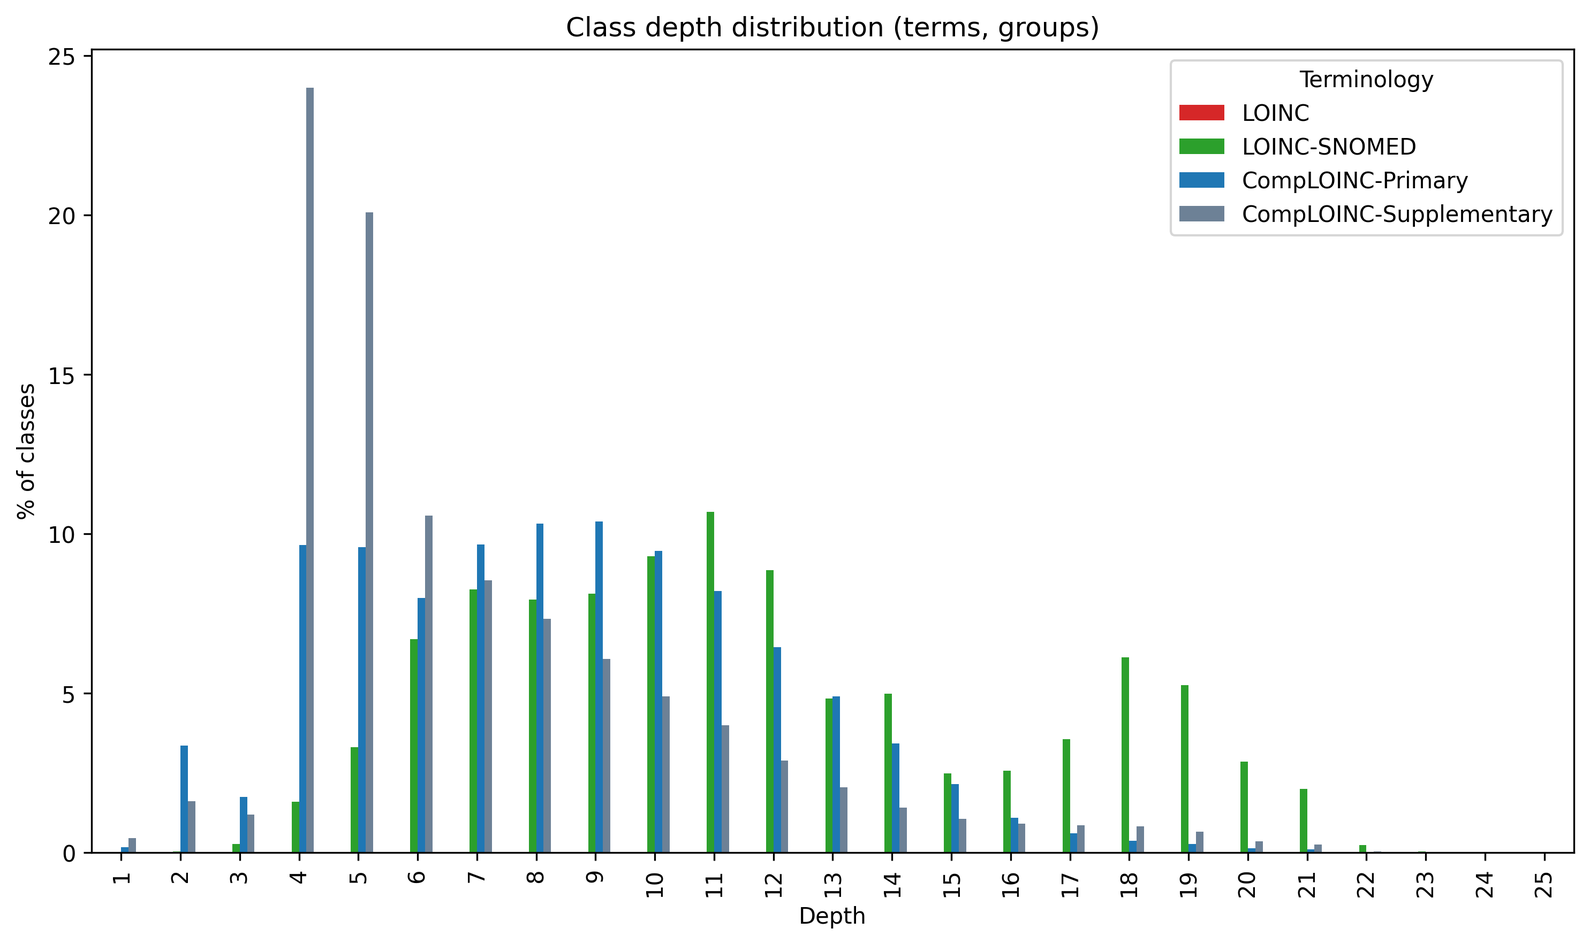
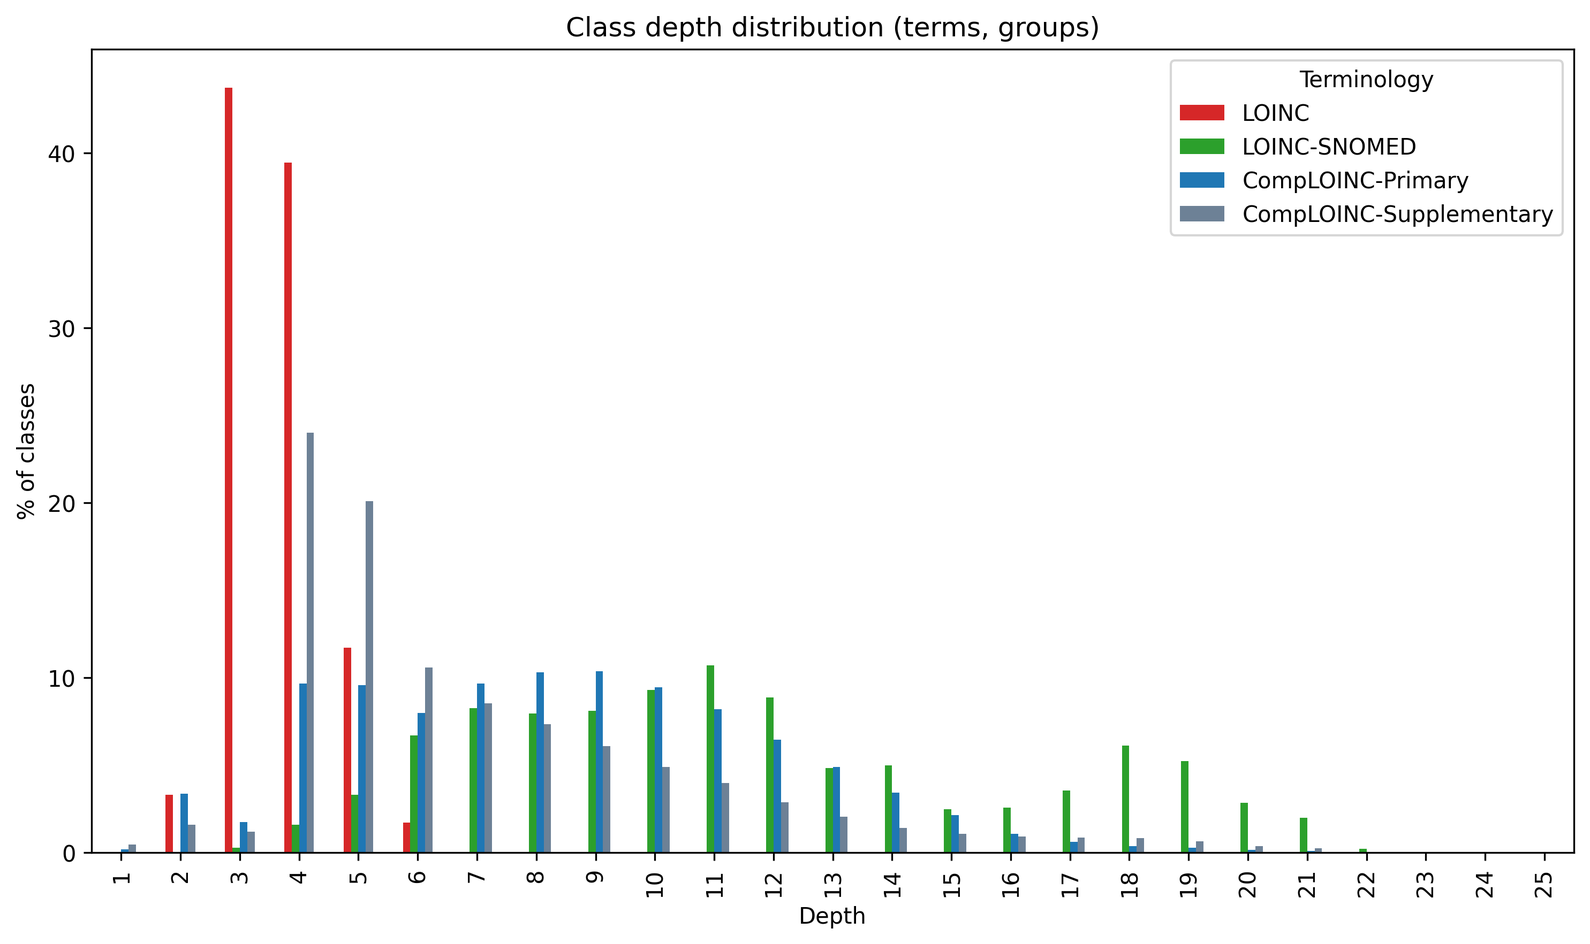
Depth analysis & Source representations
Depth analysis
- Improved logging
- Improved prefix logic

Source representations
- Fixed/improved outdirs

diff --git a/src/comp_loinc/analysis/utils.py b/src/comp_loinc/analysis/utils.py
@@ -18,9 +18,16 @@ def _disaggregate_classes(classes: Set, includes_angle_brackets=True, verbose=Fa
     """Disaggregate classes by type"""
     b = '<' if includes_angle_brackets else ''
     classes_by_type: Dict[str, Set] = {'terms': set(), 'groups': set(), 'parts': set(), 'other': set()}
-    if '<https://loinc.org/LoincPart>' in classes:
-        classes_by_type['parts'].add('<https://loinc.org/LoincPart>')
-        classes.remove('<https://loinc.org/LoincPart>')
+    # Parse roots
+    # todo: Any other root types in LOINC, CompLOINC, or LOINC-SNOMED Ontology?
+    #  - perhaps if we add roots like GRP_SYS, etc, if they have a different URL pattenr, will need to parse them here.
+    # Note: No such "https://loinc.org/LoincGroup" exists.
+    for root_uri, root_type in (('<https://loinc.org/LoincTerm>', 'terms'), ('<https://loinc.org/LoincPart>', 'parts')):
+        if root_uri in classes:
+            classes_by_type[root_type].add(root_uri)
+            classes.remove(root_uri)
+
+    # Parse non-roots
     for cls in classes:
         if cls.startswith(f'{b}http://comploinc//group/'):
             classes_by_type['groups'].add(cls)
@@ -33,6 +40,11 @@ def _disaggregate_classes(classes: Set, includes_angle_brackets=True, verbose=Fa
                 classes_by_type['terms'].add(cls)
         else:
             classes_by_type['other'].add(cls)
+
+    if len(classes_by_type['other']) > 0:
+        raise ValueError(f'Found n unexpected classes: {len(classes_by_type["other"])}. Check that '
+            f'_disaggregate_classes() is aware of all prefixes for terms, groups, and parts in CompLOINC, LOINC-SNOMED '
+            f'Ontology, and LOINC.')
 
     if verbose:
         for k, v in classes_by_type.items():

diff --git a/src/comp_loinc/analysis/depth.py b/src/comp_loinc/analysis/depth.py
@@ -107,7 +107,7 @@ def _depth_counts(
     # Find roots (classes with no parents)
     all_classes = set(children.keys()) | set(parents.keys())
     roots = all_classes - set(parents.keys())
-    logging.debug(f'    n roots: {len(roots)}')
+    logging.debug(f'    n roots: {len(roots):,}')
 
     # Calculate depth using BFS
     # A class can have multiple depths if the ontology is a polyhierarchy.
@@ -132,8 +132,8 @@ def _depth_counts(
             cls: depth for cls, depth in depths_raw.items() if cls in filtered_classes}
         depths = depths_filtered
         # logger.debug("After filtering, %d classes remain", len(depths_filtered))
-        logging.debug(f'    n classes: {len(all_classes)}')
-        logging.debug(f'    remaining after filtering: {len(filtered_classes)}')
+        logging.debug(f'    n classes: {len(all_classes):,}')
+        logging.debug(f'    n after class type filtration: {len(filtered_classes):,}')
 
         # TODO: ensure that for (terms, groups, parts), filtered_classes is the same as all_classes. at least numbers
         #  OK: 0 in filtered classes. why? cuz LOINC and filter is 'terms' and axioms are parts
@@ -376,7 +376,7 @@ def cli():
         help="Logging level.",
     )
     args = parser.parse_args()
-    logging.basicConfig(level=getattr(logging, args.log_level.upper(), logging.DEBUG))
+    logging.basicConfig(level=getattr(logging, args.log_level.upper(), logging.DEBUG), format='%(message)s')
     logging.getLogger('matplotlib').setLevel(logging.WARNING)
     d: Dict = vars(args)
     del d['log_level']

diff --git a/documentation/analyses/class-depth/depth.md b/documentation/analyses/class-depth/depth.md
@@ -25,13 +25,13 @@ was not able to find matches. Those classes are not represented here.
 
 |   depth |   LOINC |   LOINC-SNOMED |   CompLOINC-Primary |   CompLOINC-Supplementary |
 |---------|---------|----------------|---------------------|---------------------------|
-|       1 |       0 |              1 |                   2 |                         2 |
-|       2 |       0 |             10 |               14784 |                       218 |
-|       3 |       0 |             67 |                7175 |                       304 |
-|       4 |       0 |            394 |               49464 |                     48046 |
-|       5 |       0 |            815 |               46991 |                     37797 |
-|       6 |       0 |           1649 |               34165 |                     13610 |
-|       7 |       0 |           2033 |               40233 |                      6447 |
+|       1 |       1 |              1 |                   2 |                         2 |
+|       2 |       4 |             10 |               14784 |                       218 |
+|       3 |   94962 |             67 |                7175 |                       304 |
+|       4 |   85667 |            394 |               49464 |                     48046 |
+|       5 |   25457 |            815 |               46991 |                     37797 |
+|       6 |    3728 |           1649 |               34165 |                     13610 |
+|       7 |      36 |           2033 |               40233 |                      6447 |
 |       8 |       0 |           1955 |               44807 |                      4949 |
 |       9 |       0 |           1998 |               47085 |                      4279 |
 |      10 |       0 |           2289 |               44233 |                      3919 |
@@ -56,33 +56,33 @@ was not able to find matches. Those classes are not represented here.
 ## % of classes (terms)
 ![% of classes (terms)](plot-class-depth_terms_percentages.png)
 
-|   depth |   LOINC |   LOINC-SNOMED |   CompLOINC-Primary |   CompLOINC-Supplementary |
-|---------|---------|----------------|---------------------|---------------------------|
-|       1 |       0 |         0.0041 |             0.00043 |                    0.0014 |
-|       2 |       0 |         0.041  |             3.2     |                    0.15   |
-|       3 |       0 |         0.27   |             1.5     |                    0.21   |
-|       4 |       0 |         1.6    |            11       |                   34      |
-|       5 |       0 |         3.3    |            10       |                   27      |
-|       6 |       0 |         6.7    |             7.3     |                    9.6    |
-|       7 |       0 |         8.3    |             8.6     |                    4.5    |
-|       8 |       0 |         7.9    |             9.6     |                    3.5    |
-|       9 |       0 |         8.1    |            10       |                    3      |
-|      10 |       0 |         9.3    |             9.5     |                    2.8    |
-|      11 |       0 |        11      |             8.4     |                    2.6    |
-|      12 |       0 |         8.9    |             6.8     |                    2.3    |
-|      13 |       0 |         4.8    |             5.3     |                    2      |
-|      14 |       0 |         5      |             3.8     |                    1.7    |
-|      15 |       0 |         2.5    |             2.4     |                    1.4    |
-|      16 |       0 |         2.6    |             1.2     |                    1.3    |
-|      17 |       0 |         3.6    |             0.69    |                    1.3    |
-|      18 |       0 |         6.1    |             0.43    |                    1.2    |
-|      19 |       0 |         5.2    |             0.3     |                    0.96   |
-|      20 |       0 |         2.8    |             0.16    |                    0.53   |
-|      21 |       0 |         2      |             0.11    |                    0.36   |
-|      22 |       0 |         0.23   |             0.012   |                    0.041  |
-|      23 |       0 |         0.037  |             0.0024  |                    0.0078 |
-|      24 |       0 |         0.0081 |             0.00043 |                    0.0014 |
-|      25 |       0 |         0.0041 |             0.00021 |                    0.0007 |
+|   depth |    LOINC |   LOINC-SNOMED |   CompLOINC-Primary |   CompLOINC-Supplementary |
+|---------|----------|----------------|---------------------|---------------------------|
+|       1 |  0.00048 |         0.0041 |             0.00043 |                    0.0014 |
+|       2 |  0.0019  |         0.041  |             3.2     |                    0.15   |
+|       3 | 45       |         0.27   |             1.5     |                    0.21   |
+|       4 | 41       |         1.6    |            11       |                   34      |
+|       5 | 12       |         3.3    |            10       |                   27      |
+|       6 |  1.8     |         6.7    |             7.3     |                    9.6    |
+|       7 |  0.017   |         8.3    |             8.6     |                    4.5    |
+|       8 |  0       |         7.9    |             9.6     |                    3.5    |
+|       9 |  0       |         8.1    |            10       |                    3      |
+|      10 |  0       |         9.3    |             9.5     |                    2.8    |
+|      11 |  0       |        11      |             8.4     |                    2.6    |
+|      12 |  0       |         8.9    |             6.8     |                    2.3    |
+|      13 |  0       |         4.8    |             5.3     |                    2      |
+|      14 |  0       |         5      |             3.8     |                    1.7    |
+|      15 |  0       |         2.5    |             2.4     |                    1.4    |
+|      16 |  0       |         2.6    |             1.2     |                    1.3    |
+|      17 |  0       |         3.6    |             0.69    |                    1.3    |
+|      18 |  0       |         6.1    |             0.43    |                    1.2    |
+|      19 |  0       |         5.2    |             0.3     |                    0.96   |
+|      20 |  0       |         2.8    |             0.16    |                    0.53   |
+|      21 |  0       |         2      |             0.11    |                    0.36   |
+|      22 |  0       |         0.23   |             0.012   |                    0.041  |
+|      23 |  0       |         0.037  |             0.0024  |                    0.0078 |
+|      24 |  0       |         0.0081 |             0.00043 |                    0.0014 |
+|      25 |  0       |         0.0041 |             0.00021 |                    0.0007 |
 
 
 
@@ -91,13 +91,13 @@ was not able to find matches. Those classes are not represented here.
 
 |   depth |   LOINC |   LOINC-SNOMED |   CompLOINC-Primary |   CompLOINC-Supplementary |
 |---------|---------|----------------|---------------------|---------------------------|
-|       1 |       0 |              1 |                 937 |                       931 |
-|       2 |       0 |             10 |               17919 |                      3353 |
-|       3 |       0 |             67 |                9348 |                      2477 |
-|       4 |       0 |            394 |               51590 |                     50172 |
-|       5 |       0 |            815 |               51182 |                     41988 |
-|       6 |       0 |           1649 |               42663 |                     22108 |
-|       7 |       0 |           2033 |               51655 |                     17869 |
+|       1 |      46 |              1 |                 937 |                       931 |
+|       2 |    7172 |             10 |               17919 |                      3353 |
+|       3 |   94962 |             67 |                9348 |                      2477 |
+|       4 |   85667 |            394 |               51590 |                     50172 |
+|       5 |   25457 |            815 |               51182 |                     41988 |
+|       6 |    3728 |           1649 |               42663 |                     22108 |
+|       7 |      36 |           2033 |               51655 |                     17869 |
 |       8 |       0 |           1955 |               55182 |                     15324 |
 |       9 |       0 |           1998 |               55508 |                     12702 |
 |      10 |       0 |           2289 |               50547 |                     10233 |
@@ -124,31 +124,31 @@ was not able to find matches. Those classes are not represented here.
 
 |   depth |   LOINC |   LOINC-SNOMED |   CompLOINC-Primary |   CompLOINC-Supplementary |
 |---------|---------|----------------|---------------------|---------------------------|
-|       1 |       0 |         0.0041 |             0.18    |                   0.45    |
-|       2 |       0 |         0.041  |             3.4     |                   1.6     |
-|       3 |       0 |         0.27   |             1.7     |                   1.2     |
-|       4 |       0 |         1.6    |             9.7     |                  24       |
-|       5 |       0 |         3.3    |             9.6     |                  20       |
-|       6 |       0 |         6.7    |             8       |                  11       |
-|       7 |       0 |         8.3    |             9.7     |                   8.5     |
-|       8 |       0 |         7.9    |            10       |                   7.3     |
-|       9 |       0 |         8.1    |            10       |                   6.1     |
-|      10 |       0 |         9.3    |             9.5     |                   4.9     |
-|      11 |       0 |        11      |             8.2     |                   4       |
-|      12 |       0 |         8.9    |             6.4     |                   2.9     |
-|      13 |       0 |         4.8    |             4.9     |                   2.1     |
-|      14 |       0 |         5      |             3.4     |                   1.4     |
-|      15 |       0 |         2.5    |             2.2     |                   1.1     |
-|      16 |       0 |         2.6    |             1.1     |                   0.91    |
-|      17 |       0 |         3.6    |             0.6     |                   0.86    |
-|      18 |       0 |         6.1    |             0.38    |                   0.83    |
-|      19 |       0 |         5.2    |             0.26    |                   0.65    |
-|      20 |       0 |         2.8    |             0.14    |                   0.36    |
-|      21 |       0 |         2      |             0.096   |                   0.25    |
-|      22 |       0 |         0.23   |             0.011   |                   0.028   |
-|      23 |       0 |         0.037  |             0.0021  |                   0.0053  |
-|      24 |       0 |         0.0081 |             0.00037 |                   0.00096 |
-|      25 |       0 |         0.0041 |             0.00019 |                   0.00048 |
+|       1 |   0.021 |         0.0041 |             0.18    |                   0.45    |
+|       2 |   3.3   |         0.041  |             3.4     |                   1.6     |
+|       3 |  44     |         0.27   |             1.7     |                   1.2     |
+|       4 |  39     |         1.6    |             9.7     |                  24       |
+|       5 |  12     |         3.3    |             9.6     |                  20       |
+|       6 |   1.7   |         6.7    |             8       |                  11       |
+|       7 |   0.017 |         8.3    |             9.7     |                   8.5     |
+|       8 |   0     |         7.9    |            10       |                   7.3     |
+|       9 |   0     |         8.1    |            10       |                   6.1     |
+|      10 |   0     |         9.3    |             9.5     |                   4.9     |
+|      11 |   0     |        11      |             8.2     |                   4       |
+|      12 |   0     |         8.9    |             6.4     |                   2.9     |
+|      13 |   0     |         4.8    |             4.9     |                   2.1     |
+|      14 |   0     |         5      |             3.4     |                   1.4     |
+|      15 |   0     |         2.5    |             2.2     |                   1.1     |
+|      16 |   0     |         2.6    |             1.1     |                   0.91    |
+|      17 |   0     |         3.6    |             0.6     |                   0.86    |
+|      18 |   0     |         6.1    |             0.38    |                   0.83    |
+|      19 |   0     |         5.2    |             0.26    |                   0.65    |
+|      20 |   0     |         2.8    |             0.14    |                   0.36    |
+|      21 |   0     |         2      |             0.096   |                   0.25    |
+|      22 |   0     |         0.23   |             0.011   |                   0.028   |
+|      23 |   0     |         0.037  |             0.0021  |                   0.0053  |
+|      24 |   0     |         0.0081 |             0.00037 |                   0.00096 |
+|      25 |   0     |         0.0041 |             0.00019 |                   0.00048 |
 
 
 
@@ -157,19 +157,19 @@ was not able to find matches. Those classes are not represented here.
 
 |   depth |   LOINC |   LOINC-SNOMED |   CompLOINC-Primary |   CompLOINC-Supplementary |
 |---------|---------|----------------|---------------------|---------------------------|
-|       1 |       1 |              1 |                 938 |                       932 |
-|       2 |   29739 |             10 |               47303 |                     32737 |
-|       3 |    3675 |             67 |               13154 |                      6283 |
-|       4 |    8402 |            394 |               60882 |                     59464 |
-|       5 |    3690 |            815 |               57251 |                     48057 |
-|       6 |   11362 |           1649 |               60346 |                     39791 |
-|       7 |   19671 |           2033 |               80699 |                     46913 |
-|       8 |   24602 |           1955 |               87334 |                     47476 |
-|       9 |   21502 |           1998 |               85514 |                     42708 |
-|      10 |   12661 |           2289 |               76095 |                     35781 |
-|      11 |    7646 |           2632 |               66099 |                     30570 |
-|      12 |    3628 |           2180 |               53605 |                     25160 |
-|      13 |    1190 |           1191 |               42935 |                     21033 |
+|       1 |      47 |              1 |                 938 |                       932 |
+|       2 |   36911 |             10 |               47303 |                     32737 |
+|       3 |   98637 |             67 |               13154 |                      6283 |
+|       4 |   94073 |            394 |               60882 |                     59464 |
+|       5 |   29192 |            815 |               57251 |                     48057 |
+|       6 |   15202 |           1649 |               60346 |                     39791 |
+|       7 |   19923 |           2033 |               80699 |                     46913 |
+|       8 |   24922 |           1955 |               87334 |                     47476 |
+|       9 |   21787 |           1998 |               85514 |                     42708 |
+|      10 |   12833 |           2289 |               76095 |                     35781 |
+|      11 |    7702 |           2632 |               66099 |                     30570 |
+|      12 |    3634 |           2180 |               53605 |                     25160 |
+|      13 |    1191 |           1191 |               42935 |                     21033 |
 |      14 |     134 |           1226 |               32340 |                     17034 |
 |      15 |      10 |            611 |               23226 |                     13932 |
 |      16 |       0 |            630 |               15170 |                     11270 |
@@ -188,31 +188,31 @@ was not able to find matches. Those classes are not represented here.
 ## % of classes (terms, groups, parts)
 ![% of classes (terms, groups, parts)](plot-class-depth_terms-groups-parts_percentages.png)
 
-|   depth |    LOINC |   LOINC-SNOMED |   CompLOINC-Primary |   CompLOINC-Supplementary |
-|---------|----------|----------------|---------------------|---------------------------|
-|       1 |  0.00068 |         0.0041 |             0.11    |                    0.18   |
-|       2 | 20       |         0.041  |             5.6     |                    6.4    |
-|       3 |  2.5     |         0.27   |             1.6     |                    1.2    |
-|       4 |  5.7     |         1.6    |             7.3     |                   12      |
-|       5 |  2.5     |         3.3    |             6.8     |                    9.4    |
-|       6 |  7.7     |         6.7    |             7.2     |                    7.8    |
-|       7 | 13       |         8.3    |             9.6     |                    9.1    |
-|       8 | 17       |         7.9    |            10       |                    9.3    |
-|       9 | 15       |         8.1    |            10       |                    8.3    |
-|      10 |  8.6     |         9.3    |             9.1     |                    7      |
-|      11 |  5.2     |        11      |             7.9     |                    6      |
-|      12 |  2.5     |         8.9    |             6.4     |                    4.9    |
-|      13 |  0.8     |         4.8    |             5.1     |                    4.1    |
-|      14 |  0.091   |         5      |             3.9     |                    3.3    |
-|      15 |  0.0068  |         2.5    |             2.8     |                    2.7    |
-|      16 |  0       |         2.6    |             1.8     |                    2.2    |
-|      17 |  0       |         3.6    |             1.3     |                    1.8    |
-|      18 |  0       |         6.1    |             1       |                    1.6    |
-|      19 |  0       |         5.2    |             0.83    |                    1.3    |
-|      20 |  0       |         2.8    |             0.58    |                    0.95   |
-|      21 |  0       |         2      |             0.39    |                    0.63   |
-|      22 |  0       |         0.23   |             0.15    |                    0.25   |
-|      23 |  0       |         0.037  |             0.014   |                    0.023  |
-|      24 |  0       |         0.0081 |             0.0033  |                    0.0055 |
-|      25 |  0       |         0.0041 |             0.00095 |                    0.0016 |
+|   depth |   LOINC |   LOINC-SNOMED |   CompLOINC-Primary |   CompLOINC-Supplementary |
+|---------|---------|----------------|---------------------|---------------------------|
+|       1 |  0.013  |         0.0041 |             0.11    |                    0.18   |
+|       2 | 10      |         0.041  |             5.6     |                    6.4    |
+|       3 | 27      |         0.27   |             1.6     |                    1.2    |
+|       4 | 26      |         1.6    |             7.3     |                   12      |
+|       5 |  8      |         3.3    |             6.8     |                    9.4    |
+|       6 |  4.2    |         6.7    |             7.2     |                    7.8    |
+|       7 |  5.4    |         8.3    |             9.6     |                    9.1    |
+|       8 |  6.8    |         7.9    |            10       |                    9.3    |
+|       9 |  5.9    |         8.1    |            10       |                    8.3    |
+|      10 |  3.5    |         9.3    |             9.1     |                    7      |
+|      11 |  2.1    |        11      |             7.9     |                    6      |
+|      12 |  0.99   |         8.9    |             6.4     |                    4.9    |
+|      13 |  0.33   |         4.8    |             5.1     |                    4.1    |
+|      14 |  0.037  |         5      |             3.9     |                    3.3    |
+|      15 |  0.0027 |         2.5    |             2.8     |                    2.7    |
+|      16 |  0      |         2.6    |             1.8     |                    2.2    |
+|      17 |  0      |         3.6    |             1.3     |                    1.8    |
+|      18 |  0      |         6.1    |             1       |                    1.6    |
+|      19 |  0      |         5.2    |             0.83    |                    1.3    |
+|      20 |  0      |         2.8    |             0.58    |                    0.95   |
+|      21 |  0      |         2      |             0.39    |                    0.63   |
+|      22 |  0      |         0.23   |             0.15    |                    0.25   |
+|      23 |  0      |         0.037  |             0.014   |                    0.023  |
+|      24 |  0      |         0.0081 |             0.0033  |                    0.0055 |
+|      25 |  0      |         0.0041 |             0.00095 |                    0.0016 |
 
